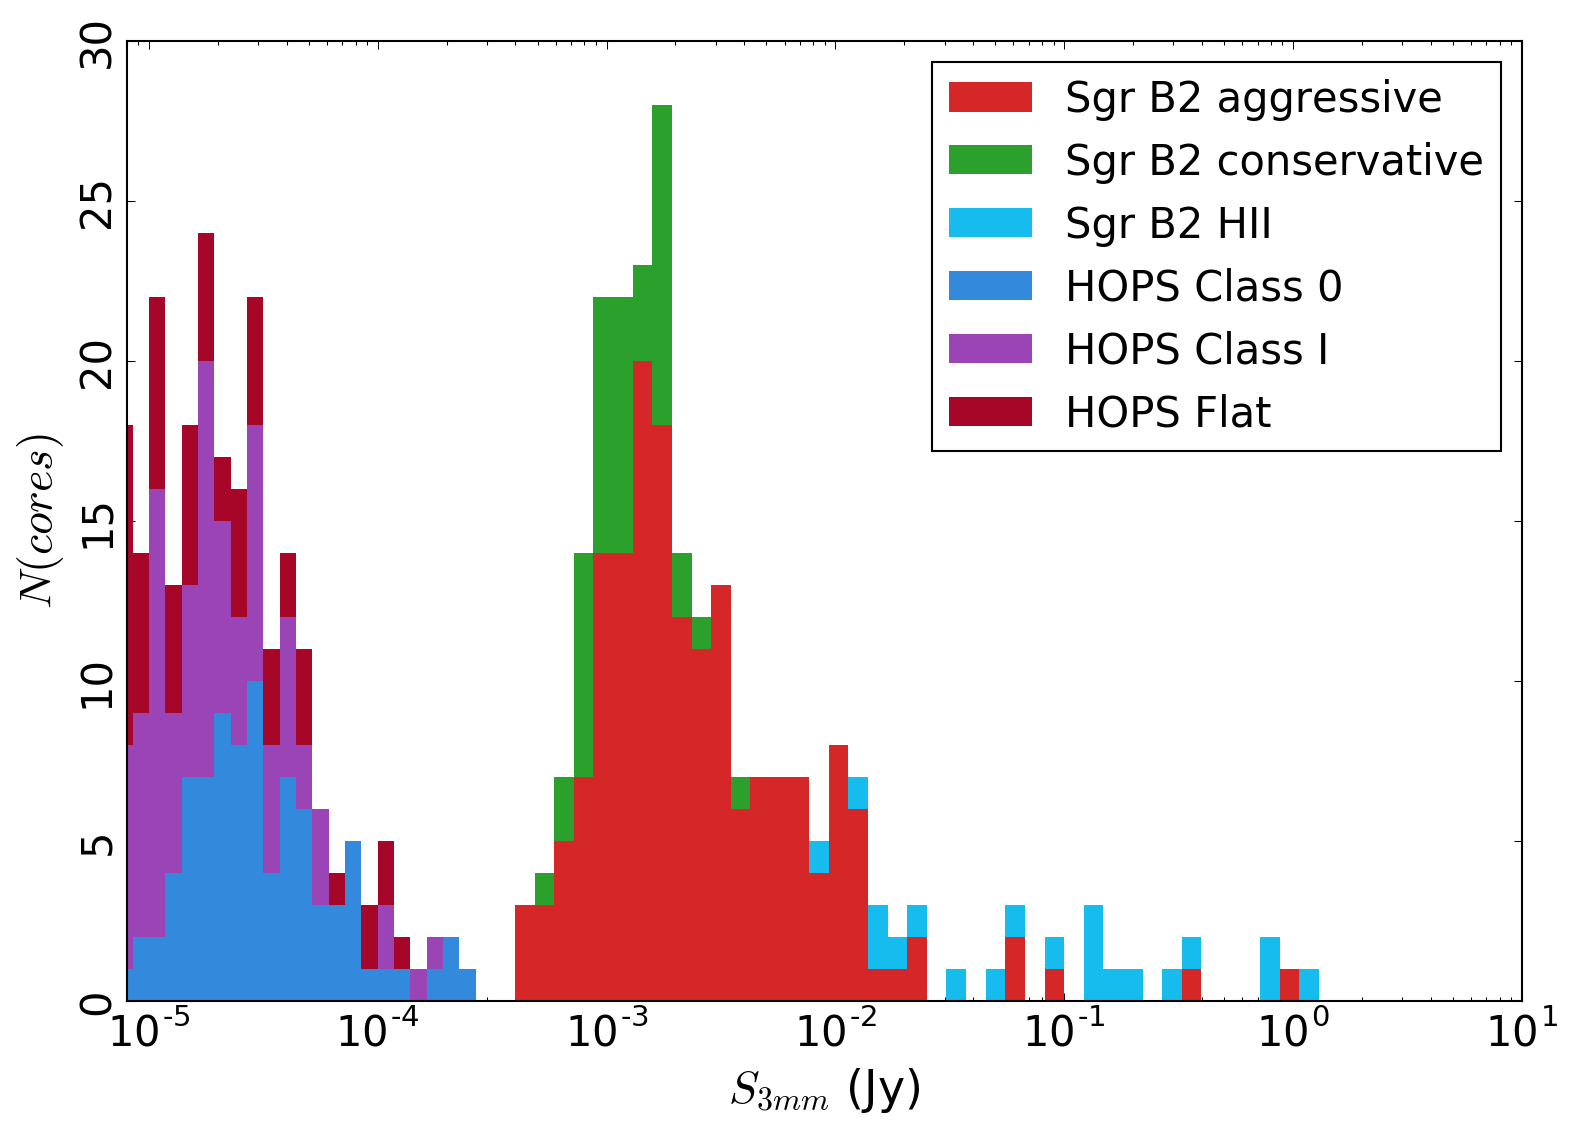
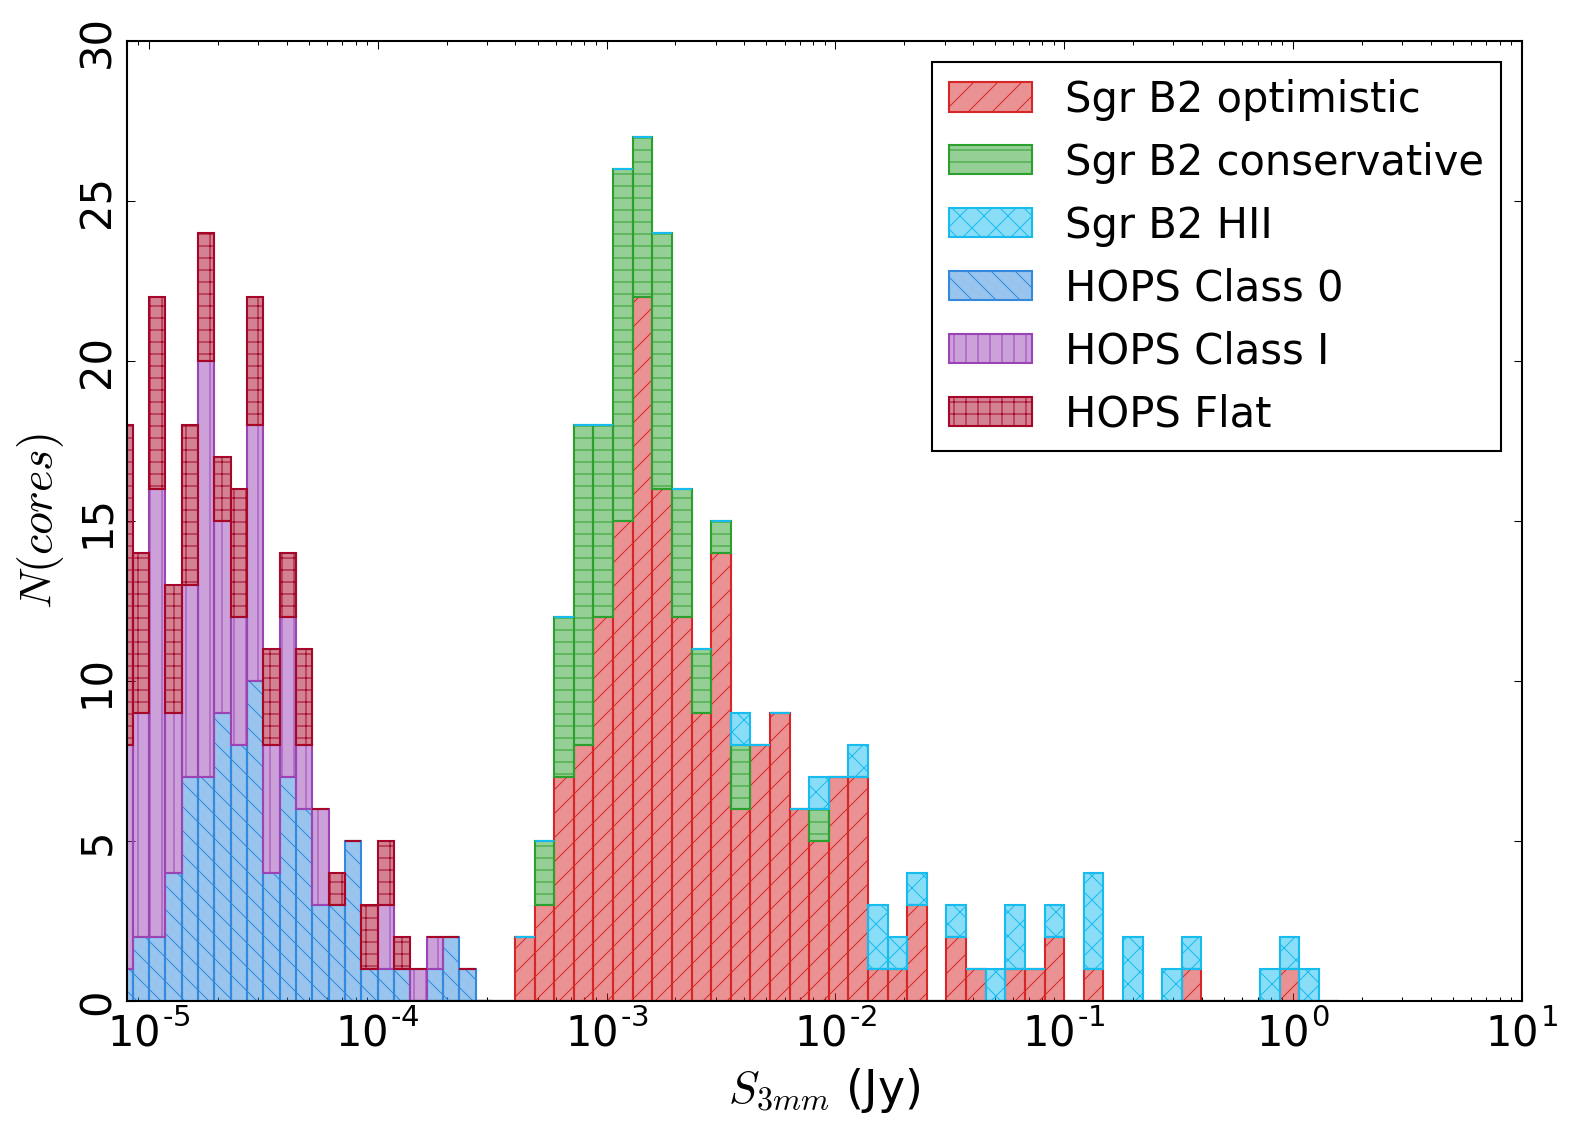
try to accommodate the colorblind

diff --git a/tex_cores/sgrb2_cores.tex b/tex_cores/sgrb2_cores.tex
@@ -225,7 +225,9 @@ is the Sgr B2 North core \citep[][Sanchez-Monge et al. 2017,
 submitted]{Sanchez-Monge2017a}.
 While many lines were included in the spectral setup, only \cyanoacetylene
 J=10-9 is discussed here; of the included lines, it is the brightest and most
-widely detected.
+widely detected.  This line has a critical density $n_{cr}\equiv A_{ij}/C_{ij}
+\approx5\ee{5}$ \percc \citep{Green1978b}, so it would traditionally be
+considered a high-density gas tracer.
 
 \FigureTwo
 {figures/continuum_peak_DeepSouth_saturated.pdf}
@@ -613,7 +615,7 @@ cm continuum VLA map highlighting the diffuse free-free (or possibly
 synchrotron) emission in the region \citep{Yusef-Zadeh2004a}.
 (right) Continuum sources overlaid on a map
 of the \cyanoacetylene J=10-9 peak intensity over the range [-200, 200] \kms.
-\cyanoacetylene traces moderate-density molecular gas.  In both figures, red
+  In both figures, red
 dots are `conservative',
 high-confidence sources, orange dots are `optimistic', low-confidence sources,
 cyan are \hii regions, magenta +'s are masers, and green X's are X-ray sources.
@@ -1080,7 +1082,9 @@ maps.  Even using the conservative maximum temperature $T_{dust}=50$ K
 (resulting in the minimum column density), all of the sources exist at a column
 density an order of magnitude higher than the Lada threshold, and they exist
 above that threshold even if the foreground is assumed to be an extreme $5\ee{22}$
-\persc.
+\persc.  While all of the sources exist above this threshold, not all pixels
+above this threshold contain protostars or protostellar cores; the threshold
+is therefore a necessary, but not a sufficient, condition for star formation.
 
 
 The \citet{Lada2010a} sample used Spitzer observations of nearby clouds that
@@ -1089,7 +1093,7 @@ discussed in Section \ref{sec:theyareprotostars}, our survey is sensitive only
 to stars with $M\gtrsim8$ \msun.  The apparently higher column threshold either
 means that there is a genuinely higher threshold for star formation in the CMZ
 or that there is a higher threshold for high-mass star formation that may still
-be universal.
+be universal.  
 
 {\color{red} Can this discussion be expanded by examining other thresholds?
 Diederik suggested Krumholz HMSF threshold, Kauffmann and Pillai threshold should
@@ -1100,7 +1104,7 @@ be examined.}
 {Cumulative distribution functions of the background column density associated
 with each identified 3 mm continuum source.  The column densities are computed
 from a variety of maps with different resolution and assumed temperature.
-The Herschel maps use SED-fitted temperatures \citep{Battersby2017a} at
+The Herschel maps use SED-fitted temperatures (Battersby et al. in prep) at
 25\arcsec resolution (excluding the 500 \um data point) and 36\arcsec resolution.
 The SHARC 350 \um and SCUBA 450 \um maps both have higher resolution ($\sim10\arcsec$)
 but no temperature information; we used an assumed $T_{dust}=20$ and $T_{dust}=50$ K
@@ -1193,7 +1197,7 @@ reached in G0.253.  }
 \section{Discussion}
 We have reported the detection of a large number of point sources and inferred
 that they are most likely all high-mass protostars.  These sources universally
-reside in gas above $N\gtrsim2\ee{23}$ \persc.  In this section, we discuss
+reside in gas above $N(\hh)\gtrsim2\ee{23}$ \persc.  In this section, we discuss
 the implications of this apparent threshold for high-mass star formation in the
 CMZ.
 

diff --git a/plot_codes/HOPS_core_plots.py b/plot_codes/HOPS_core_plots.py
@@ -48,7 +48,7 @@ hs,l,p = ax1.hist([core_phot_tbl['peak'][highconf & ~hii],
                    core_phot_tbl['peak'][hii],
                   ],
                   log=False,
-                  label=['Sgr B2 aggressive',
+                  label=['Sgr B2 optimistic',
                          'Sgr B2 conservative',
                          'Sgr B2 HII'],
                   color=['#d62728','#2ca02c','#17bcef'],
@@ -58,18 +58,34 @@ hs,l,p = ax1.hist([core_phot_tbl['peak'][highconf & ~hii],
                   histtype='barstacked',
                   bins=np.logspace(-4,0.2,50))
 (hh,hl,hhii) = hs
+for pc, hatch in zip(p, ['/','-','x']):
+    for patch in pc:
+        patch.set_hatch(hatch)
+        color = patch.get_facecolor()
+        patch.set_edgecolor(color)
+        color = (*color[:3], 0.5)
+        patch.set_facecolor(color)
 
-ax1.hist([flux_3mm_cmz[class0],
-          flux_3mm_cmz[classI],
-          #flux_3mm_cmz[classII],
-          flux_3mm_cmz[classflat],
-         ], label=['HOPS Class 0', 'HOPS Class I',
-                   #'HOPS Class II',
-                   'HOPS Flat'],
-         edgecolor='none',
-         rwidth=1,
-         stacked=True,
-         bins=np.logspace(-7,-3.5,50), histtype='barstacked')
+
+hs,l,p = ax1.hist([flux_3mm_cmz[class0],
+                   flux_3mm_cmz[classI],
+                   #flux_3mm_cmz[classII],
+                   flux_3mm_cmz[classflat],
+                  ], label=['HOPS Class 0', 'HOPS Class I',
+                            #'HOPS Class II',
+                            'HOPS Flat'],
+                  edgecolor='none',
+                  rwidth=1,
+                  stacked=True,
+                  bins=np.logspace(-7,-3.5,50), histtype='barstacked')
+for pc, hatch in zip(p, ['\\','|','+']):
+    for patch in pc:
+        patch.set_hatch(hatch)
+        color = patch.get_facecolor()
+        patch.set_edgecolor(color)
+        color = (*color[:3], 0.5)
+        patch.set_facecolor(color)
+
 
 ylim = ax1.get_ylim()
 #mx = np.logspace(-4, 0.2, 50)
@@ -99,11 +115,18 @@ hs,l,p = ax2.hist([sn[highconf & ~hii],
                    sn[hii],
                   ],
                   log=False,
-                  label=['Sgr B2 aggressive',
+                  label=['Sgr B2 optimistic',
                          'Sgr B2 conservative',
                          'Sgr B2 HII'],
                   color=['#d62728','#2ca02c','#17bcef'],
                   bins=np.logspace(0,2,50), histtype='barstacked')
+for pc, hatch in zip(p, ['/','-','x']):
+    for patch in pc:
+        patch.set_hatch(hatch)
+        color = patch.get_facecolor()
+        patch.set_edgecolor(color)
+        color = (*color[:3], 0.5)
+        patch.set_facecolor(color)
 ax2.set_xscale('log')
 ax2.set_xlabel("S/N", fontsize=12)
 ax2.set_ylabel("$N(cores)$", fontsize=12)

diff --git a/plot_codes/core_table_plots.py b/plot_codes/core_table_plots.py
@@ -161,7 +161,7 @@ hs,l,p = ax5.hist([core_phot_tbl['alpha'][highconf & ~hii & alphaok_mask],
                    core_phot_tbl['alpha'][lowconf & ~hii & alphaok_mask],
                    core_phot_tbl['alpha'][hii & alphaok_mask],
                   ], log=False,
-                  label=['Sgr B2 conservative','Sgr B2 aggressive',
+                  label=['Sgr B2 conservative','Sgr B2 optimistic',
                          'Sgr B2 HII'],
                   color=['#d62728','#2ca02c','#17bcef'],
                   bins=np.linspace(-3.0, 5, 20),
@@ -171,6 +171,13 @@ hs,l,p = ax5.hist([core_phot_tbl['alpha'][highconf & ~hii & alphaok_mask],
                   histtype='barstacked')
 (hh,hl,hhii) = hs
 assert hhii.sum() == alphaok_mask.sum()
+for pc, hatch in zip(p, ['/','-','x']):
+    for patch in pc:
+        patch.set_hatch(hatch)
+        color = patch.get_facecolor()
+        patch.set_edgecolor(color)
+        color = (*color[:3], 0.5)
+        patch.set_facecolor(color)
 
 #ax5.set_xscale('log')
 ax5.set_xlim(l[:-1][hh>0].min()*1.1, l[1:][hh>0].max()*1.1)
@@ -200,6 +207,14 @@ hs,l,p = ax6.hist([core_phot_tbl['peak'][highconf & ~hii & alphaok_mask],
                   stacked=True,
                   histtype='barstacked')
 (hh,hl,hhii) = hs
+assert hhii.sum() == alphaok_mask.sum()
+for pc, hatch in zip(p, ['/','-','x']):
+    for patch in pc:
+        patch.set_hatch(hatch)
+        color = patch.get_facecolor()
+        patch.set_edgecolor(color)
+        color = (*color[:3], 0.5)
+        patch.set_facecolor(color)
 
 ax6.set_xscale('log')
 ax6.set_xlim(l[:-1][hh>0].min()/1.1, l[1:][hh>0].max()*1.1)

diff --git a/analysis/core_flux_distributions.py b/analysis/core_flux_distributions.py
@@ -40,6 +40,13 @@ hs,l,p = ax1.hist([core_phot_tbl['peak'][highconf & ~hii],
                   stacked=True,
                   histtype='barstacked')
 (hh,hl,hhii) = hs
+for pc, hatch in zip(p, ['/','-','x']):
+    for patch in pc:
+        patch.set_hatch(hatch)
+        color = patch.get_facecolor()
+        patch.set_edgecolor(color)
+        color = (*color[:3], 0.5)
+        patch.set_facecolor(color)
 
 ax1.set_xscale('log')
 ax1.set_xlim(l[:-1][hh>0].min()/1.1, l[1:][(hh>0)|(hhii>0)].max()*1.1)
